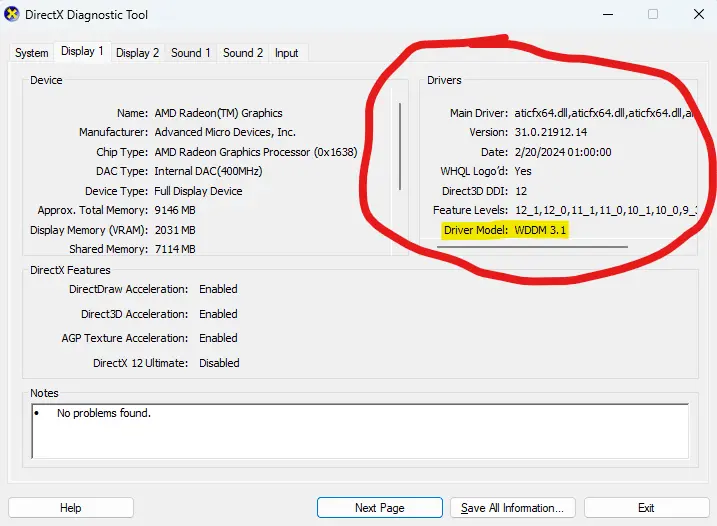
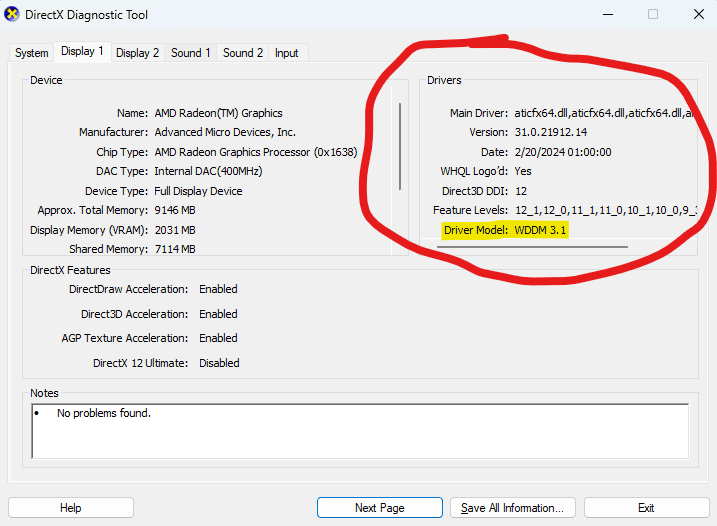
Performance optimisations

diff --git a/pc_tips/adblocker.html b/pc_tips/adblocker.html
@@ -46,7 +46,7 @@
     </aside>    
     <article title="Main Article Content"> <!-- Main article content -->
         <h1 id="Article-Title">Blocking advertisements on your PC</h1>
-            <img src="adblocker/ads_everywhere.png" alt="Webpage full of ads">
+            <img src="adblocker/ads_everywhere.webp" alt="Webpage full of ads">
                 <p class="imgdescription">Ads are annoying, they also put you at risk from scams and malware.</p>
             <h2 id="Introduction">Introduction</h2>
                 <p>Advertisements are commonplace on the internet as they are a really quick and easy way to make a few quick quid here and there for the website owners/ operators, however in recent years advertisements have become more common place as website owners/ operators are becoming greedier and wanting a larger income from their sites at your expense.</p>
@@ -60,30 +60,30 @@
             <h2 id="installing-ublock">How to install uBlock Origin</h2>
                 <p>It is really easy to install uBlock Origin on your PCs web browser you just need to follow the guide below for your particular web browser.</p>
                 <h3 id="EDGE">Installing uBlock Origin on Microsoft Edge</h3>
-                    <img src="adblocker/edge_get.png" alt="Get uBlock Origin for Microsoft Edge">
+                    <img src="adblocker/edge_get.webp" alt="Get uBlock Origin for Microsoft Edge">
                     <p>To install uBlock Origin on Microsoft Edge you need to visit the uBlock Origin page in the Edge Add-ons and click on the "Get" button.</p>
                     <a class="linkbutton" title="Edge Add-ons: uBlock Origin" href="https://microsoftedge.microsoft.com/addons/detail/ublock-origin/odfafepnkmbhccpbejgmiehpchacaeak">Edge Add-ons: uBlock Origin</a>
                     <br>
-                    <img src="adblocker/edge_add.png" alt="Add 'uBlock Origin' to Microsoft Edge? Add extension is circled">
+                    <img src="adblocker/edge_add.webp" alt="Add 'uBlock Origin' to Microsoft Edge? Add extension is circled">
                     <p>Click on the "Add extension" button to install uBlock Origin, once you have done this you should see a message telling you that uBlock Origin has been successfully installed.</p>
                 <h3 id="FIREFOX">Installing uBlock Origin on Mozilla Firefox</h3>
-                    <img src="adblocker/firefox_get.png" alt="Add uBlock Origin to Firefox">
+                    <img src="adblocker/firefox_get.webp" alt="Add uBlock Origin to Firefox">
                     <p>To install uBlock Origin on Mozilla Firefox you need to visit the uBlock Origin page in the Firefox Browser ADD-ONS and click on the "Add to Firefox" button.</p>
                     <a class="linkbutton" title="Firefox Browser ADD-ONS: uBlock Origin" href="https://addons.mozilla.org/en-US/firefox/addon/ublock-origin/">Firefox Browser ADD-ONS: uBlock Origin</a>
                     <br>
-                    <img src="adblocker/firefox_add.png" alt="Add uBlock Origin? Add extension is circled">
+                    <img src="adblocker/firefox_add.webp" alt="Add uBlock Origin? Add extension is circled">
                     <p>Click on the "Add extension" button to install uBlock Origin, once you have done this you should see a message telling you that uBlock Origin has been successfully installed.</p>
                 <h3 id="CHROME">Installing uBlock Origin on Google Chrome</h3>
-                    <img src="adblocker/chrome_get.png" alt="Add uBlock Origin to Chrome">
+                    <img src="adblocker/chrome_get.webp" alt="Add uBlock Origin to Chrome">
                     <p>To install uBlock Origin on Google Chrome you need to visit the uBlock Origin page in the chrome web store and click on the "Add to Chrome" button.</p>
                     <a class="linkbutton" title="chrome web store: uBlock Origin" href="https://chromewebstore.google.com/detail/cjpalhdlnbpafiamejdnhcphjbkeiagm">chrome web store: uBlock Origin</a>
                     <br>
-                    <img src="adblocker/chrome_add.png" alt="Add 'uBlock Origin'? Add extension is circled">
+                    <img src="adblocker/chrome_add.webp" alt="Add 'uBlock Origin'? Add extension is circled">
                     <p>Click on the "Add extension" button to install uBlock Origin, once you have done this you should see a message telling you that uBlock Origin has been added to Chrome.</p>
                 <h3 id="OTHERS">Installing uBlock Origin on other Web Browsers</h3>
                     <p>If you are using a web browser that has not been mentioned you should follow the Google Chrome guide as most popular web browsers are based on Google Chrome meaning that the extension should be compatible, if you are using Safari, you are out of luck as uBlock Origin is not supported on any version of the Safari web browser.</p>
             <h2 id="allowing-ads">How do I allow ads on a specific site?</h2> 
-                <img src="adblocker/allow_ads.png" alt="Power button is circled.">
+                <img src="adblocker/allow_ads.webp" alt="Power button is circled.">
                 <p>If you want to allow ads on a particular website for any reason, you just need to click on the uBlock Origin extension, you then need to click on the giant power button, this will whitelist the entire website, to view the ads simply refresh the page.</p>
                 <p>If you want to block the ads after whitelisting the website you just need to navigate to that website again and click the power button, it will then turn blue and the ads will be blocked again.</p>
             <hr>

diff --git a/pc_tips/upgrading_to_windows11.html b/pc_tips/upgrading_to_windows11.html
@@ -46,7 +46,7 @@
     </aside>    
     <article title="Main Article Content"> <!-- Main article content -->
         <h1 id="Article-Title">Upgrading to Windows 11</h1>
-            <img src="upgrading_to_windows11/upgradefrom10to11.jpg" alt="Transitioning from Windows 10 to Windows 11">
+            <img src="upgrading_to_windows11/upgradefrom10to11.webp" alt="Transitioning from Windows 10 to Windows 11">
                 <p class="imgdescription">The time to transition from Windows 10 to Windows 11 is here.</p>
             <h2 id="Introduction">Introduction</h2>
                 <p>Windows 11 was released on 05/10/2021, making it three years old this year, if you are running Windows 10 or older you need to upgrade to ensure that your PC remains updated and compatible with the latest software.</p>
@@ -58,9 +58,9 @@
             <p>It is really simple to tell if your computer is supported, you need to use free Microsoft PC Health Check App as it is the official way to tell if your computer is supported. You can the PC Health Check App below.</p>
             <a class="linkbutton" title="Download Microsoft PC Health Check App" href="https://aka.ms/GetPCHealthCheckApp">Download PC Health Checker</a>
             <h3 id="pc-health-check">How to use the PC Health Check</h3>
-            <img src="upgrading_to_windows11/pc_health_check.png" alt="PC health check app, click on the Check now button.">
+            <img src="upgrading_to_windows11/pc_health_check.webp" alt="PC health check app, click on the Check now button.">
                 <p>The PC Health Check App is really easy to use, once you have downloaded and installed it you should see a screen like the one pictured above, you just need to click on the 'Check Now' button and it will tell you if you PC is ready for Windows 11 or not.</p>
-            <img src="upgrading_to_windows11/windows11ready.png" alt="Image, This PC meets Windows 11 requirements">
+            <img src="upgrading_to_windows11/windows11ready.webp" alt="Image, This PC meets Windows 11 requirements">
                 <p><strong>If you see a message telling you that "This PC meets Windows 11 requirements" you can skip the next steps and jump straight to Downloading and Installing Windows 11.</strong></p>
                 <p>If you see anything else, this means that your PC is not officially supported but you can probably still run it anyway, read the 'What to do if my PC is unsupported?' section for more information.</p>
             <h2 id="Unsupported-pc">What to do if my PC is unsupported?</h2> 

diff --git a/pc_tips/check_wddm_version.html b/pc_tips/check_wddm_version.html
@@ -45,11 +45,11 @@
                 <p>It is really easy to find your Windows Display Driver Model version, you will need to use a tool called DirectX Diagnostic Tool (dxdiag.exe), this tool is free to use and is built into your computer.</p>
             <h2 id="using-dxdiag">How do I use DirectX Diagnostic Tool to find my WDDM version?</h2>
                 <p>It is really easy to find your WDDM version using the dxdiag tool, to launch dxdiag you need to open run by holding both the Windows key "🪟" and "R" key on your keyboard at the same time.</p>
-                <img src="check_wddm_version/run_dxdiag.png" alt="an image representing Run dialog, dxdiag.exe has been entered.">
+                <img src="check_wddm_version/run_dxdiag.webp" alt="an image representing Run dialog, dxdiag.exe has been entered.">
                 <p>Once you have opened the run dialog, you need to enter "dxdiag.exe" and press the "OK" button, this will launch the DirectX Diagnostic Tool.</p>
-                <img src="check_wddm_version/dxdiag.png" alt="an image representing dxdiag, Display 1 tab has been highlighted.">
+                <img src="check_wddm_version/dxdiag.webp" alt="an image representing dxdiag, Display 1 tab has been highlighted.">
                 <p>You should now see the DirectX Diagnostic Tool; you need to click on the tab that says "Display 1".</p>
-                <img src="check_wddm_version/display_1_dxdiag.png" alt="an image representing dxdiag Display 1 tab, Drivers section is circled, Driver Model has been highlighted.">
+                <img src="check_wddm_version/display_1_dxdiag.webp" alt="an image representing dxdiag Display 1 tab, Drivers section is circled, Driver Model has been highlighted.">
                 <p>On the right of the dxdiag tool you should see a section called "Drivers", in this section you should see your Driver Model, in the example above the Driver Model is "WDDM 3.1", the value you see in this section is your WDDM version.</p>
                 <p><strong>Your WDDM version must be 2.0 or higher if you wish to run Windows 11, you might be able to update to a newer driver model by updating your display drivers or by upgrading your GPU if you are using a desktop.</strong></p>
                 <p><strong>If you are using a laptop, you cannot replace your GPU and you will need to replace your entire machine if WDDM 2.0 drivers are not available for your hardware if you wish to upgrade to Windows 11.</strong></p>

diff --git a/pc_tips/hardware_acceleration_black_screen_fix.html b/pc_tips/hardware_acceleration_black_screen_fix.html
@@ -43,7 +43,7 @@
     </aside>    
     <article title="Main Article Content"> <!-- Main article content -->
         <h1 id="Article-Title">Fixing Black Squares and Flashing Black Screens in Applications That Use Hardware Acceleration</h1>
-            <img src="hardware_acceleration_black_screen_fix/black_artefacts_mockup.png" alt="an image representing black artefacts in Microsoft Office.">
+            <img src="hardware_acceleration_black_screen_fix/black_artefacts_mockup.webp" alt="an image representing black artefacts in Microsoft Office.">
                 <p class="imgdescription">The glitch causes applications that use Hardware Acceleration to have black artefacts, this image is a mock-up as the artifacts do not appear long enough to capture an example.</p>
             <h2 id="Introduction">Introduction</h2>
                 <p>Have you run into problems on Windows 10/ 11 where your screen randomly starts flashing black, you see black squares in videos and when you are browsing the internet, you see black squares in Microsoft Office?</p>
